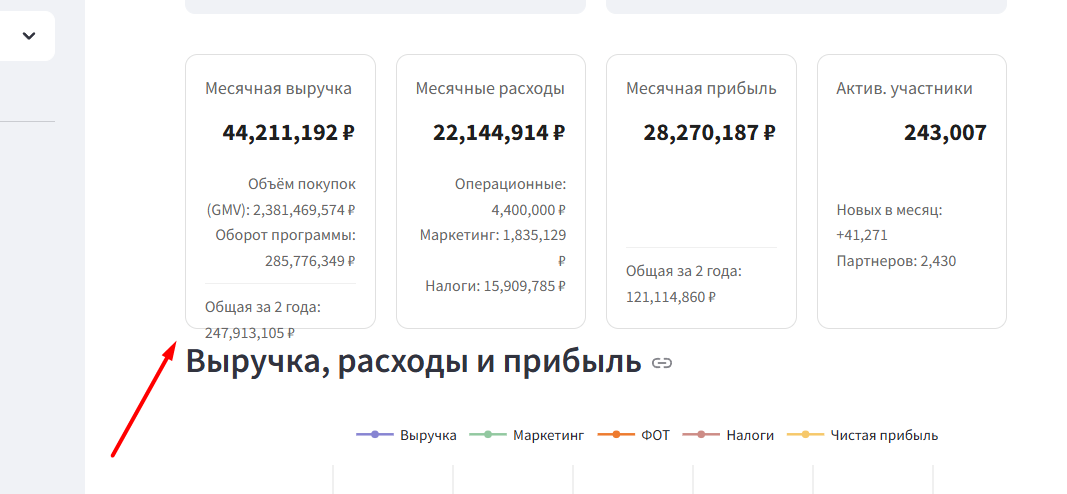
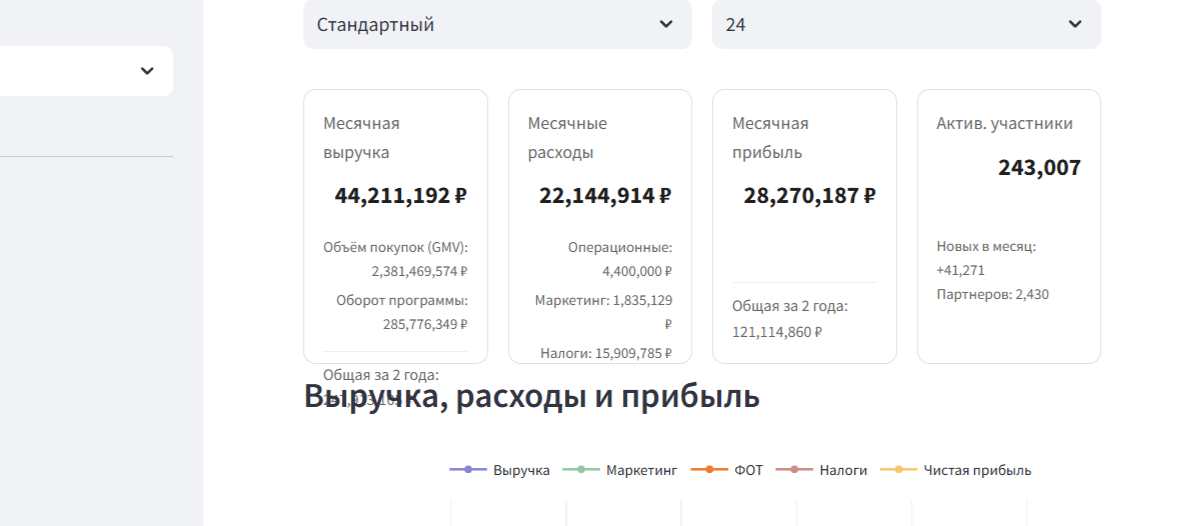
Agent query: Проверьте, пожалуйста: 1) Адаптируются ли контейнеры под разный объем текста? 2) Читабельны ли все значения? 3) Нет ли наложения текста?
Improve Streamlit app UI: Adjust metric container padding, styling, and layout for better readability.

Screenshot: https://storage.googleapis.com/screenshot-production-us-central1/f5e095a3-f525-4b15-8ae3-3ce0f434ca6e/0f514277-6831-4f46-93e3-7dafeaba7ad7.jpg

diff --git a/main.py b/main.py
@@ -201,24 +201,25 @@ def main():
         .metric-container {
             border: 1px solid #e0e0e0;
             border-radius: 10px;
-            padding: 15px;
+            padding: 20px;
             background-color: white;
-            height: 220px;
+            min-height: 200px;
             display: flex;
             flex-direction: column;
-            justify-content: space-between;
+            justify-content: flex-start;
+            gap: 10px;
         }
         .metric-title {
             color: #666;
             font-size: 0.9em;
-            margin-bottom: 8px;
+            margin-bottom: 4px;
             flex: 0 0 auto;
         }
         .metric-value {
             font-size: 1.2em;
             font-weight: bold;
             color: #1f1f1f;
-            margin-bottom: 8px;
+            margin-bottom: 4px;
             text-align: right;
             word-wrap: break-word;
             overflow-wrap: break-word;
@@ -227,24 +228,24 @@ def main():
         .metric-subtitle {
             font-size: 0.8em;
             color: #666;
-            padding-top: 8px;
+            padding-top: 10px;
             border-top: 1px solid #f0f0f0;
             margin-top: auto;
         }
         .metric-details {
             font-size: 0.75em;
             color: #666;
-            margin: 8px 0;
-            flex: 1 0 auto;
+            flex: 1;
             display: flex;
             flex-direction: column;
-            justify-content: center;
+            justify-content: flex-start;
+            gap: 6px;
         }
         .metric-details div {
             text-align: right;
             word-wrap: break-word;
             overflow-wrap: break-word;
-            margin-bottom: 4px;
+            line-height: 1.4;
         }
         </style>
         """, unsafe_allow_html=True)
@@ -292,8 +293,8 @@ def main():
                 <div class="metric-title">Актив. участники</div>
                 <div class="metric-value">{month_data['active_users']:,.0f}</div>
                 <div class="metric-details">
-                    Новых в месяц: +{month_data['total_new_users']:,.0f}<br>
-                    Партнеров: {month_data['active_users'] / 100:,.0f}
+                    <div>Новых в месяц: +{month_data['total_new_users']:,.0f}</div>
+                    <div>Партнеров: {month_data['active_users'] / 100:,.0f}</div>
                 </div>
             </div>
             """, unsafe_allow_html=True)
